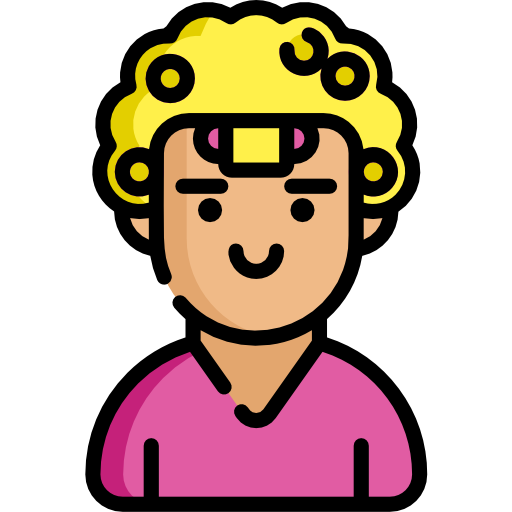
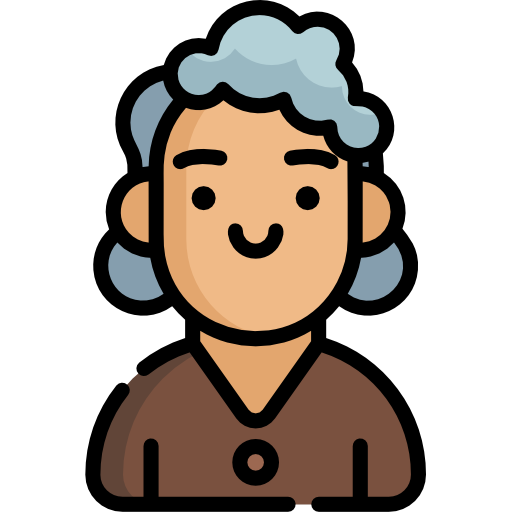
프로필사진 선택추가

diff --git a/src/main/resources/templates/myPage/myPage.html b/src/main/resources/templates/myPage/myPage.html
@@ -16,52 +16,55 @@
 <div class="myPage">
     <hr class="myPageHr">
     <p class="myPageHead">&nbsp&nbsp개인정보</p>
+
     <div class="myPageIndiv">
+        <br>
+        <div class="row g-3 align-items-center  no-gutters">
+            <br>
+            <div class="col-auto">
+                <label for="emailText" class="col-form-label">이메일</label>
+            </div>
+            <div class="col-md-9">
+                <input type="text" id="emailText" class="form-control" placeholder="test2@naver.com"
+                       th:value="${member.getEmail()}" disabled>
+            </div>
+        </div>
+        <br>
+
+        <div class="row g-3 align-items-center no-gutters">
+            <div class="col-auto">
+                <label class="col-form-label">닉네임</label>
+            </div>
+            <div class="col-md-9">
+                <input type="text" id="nameText" class="form-control" placeholder="닉네임"
+                       th:value="${member.getNickname()}">
+            </div>
+        </div>
+        <br>
+        <div class="row g-3 align-items-center no-gutters">
+            <div class="col-auto">
+                <label for="callText" class="col-form-label">연락처</label>
+            </div>
+            <div class="col-md-9">
+                <input type="text" id="callText" class="form-control" placeholder="010-1234-5678"
+                       th:value="${member.getPhone()}">
+            </div>
+        </div>
         <br>
 
         <div class="row g-3 align-items-center">
-            <br>
-            <div class="row g-3 align-items-center no-gutters">
-                <div class="col-auto">
-                    <label for="emailText" class="col-form-label">이메일</label>
-                </div>
-                <div class="col-md-9">
-                    <input type="text" id="emailText" class="form-control" placeholder="test2@naver.com"
-                           th:value="${member.getEmail()}" disabled>
-                </div>
-            </div>
-            <br>
-
-            <div class="row g-3 align-items-center">
-                <div class="col-auto">
-                    <label class="col-form-label">닉네임</label>
-                </div>
-                <div class="col-md-9">
-                    <input type="text" id="nameText" class="form-control" placeholder="닉네임"
-                           th:value="${member.getNickname()}">
-                </div>
-            </div>
-
-            <div class="row g-3 align-items-center">
-                <div class="col-auto">
-                    <label for="callText" class="col-form-label">연락처</label>
-                </div>
-                <div class="col-md-9">
-                    <input type="text" id="callText" class="form-control" placeholder="010-1234-5678"
-                           th:value="${member.getPhone()}">
-                </div>
-            </div>
-            <br>
-
-            <div class="row g-3 align-items-center">
-                <div class="col-auto">
+            <div class="col-auto">
                 <span>
                     <button id="btn-update" type="button" class="btn btn-primary">변경</button>
                 </span>
-                </div>
             </div>
         </div>
+        <div style="position: relative;bottom: 215px;margin-left: 470px;width: 150px;height: 150px;border: 1px solid black;"
+             data-bs-toggle="modal" data-bs-target="#profile-change">
+            <img id="myProfile" style="width: 100%;height: 100%" src="/image/profile-icon/man1.png">
+        </div>
     </div>
+
     <hr class="myPageHr">
     <p class="myPageHead">&nbsp&nbsp 패스워드 변경</p>
     <br>
@@ -71,7 +74,8 @@
                 <label for="nowPass" class="col-form-label" style="padding-right: 3em">패스워드&nbsp</label>
             </div>
             <div class="col-md-9">
-                <input type="password" maxlength="20" id="nowPass" name="nowPass" class="form-control" placeholder="현재 비밀번호">
+                <input type="password" maxlength="20" id="nowPass" name="nowPass" class="form-control"
+                       placeholder="현재 비밀번호">
             </div>
         </div>
         <br>
@@ -81,7 +85,8 @@
                 <label for="newPass" class="col-form-label">변경할 패스워드</label>
             </div>
             <div class="col-md-9">
-                <input type="password" maxlength="20" id="newPass" name="newPass" class="form-control" placeholder="새 비밀번호">
+                <input type="password" maxlength="20" id="newPass" name="newPass" class="form-control"
+                       placeholder="새 비밀번호">
             </div>
         </div>
         <br>
@@ -91,7 +96,8 @@
                 <label for="rePass" class="col-form-label" style="padding-right: 1em">패스워드 확인</label>
             </div>
             <div class="col-md-9">
-                <input type="password" maxlength="20" id="rePass" name="rePass" class="form-control" placeholder="비밀번호 확인">
+                <input type="password" maxlength="20" id="rePass" name="rePass" class="form-control"
+                       placeholder="비밀번호 확인">
             </div>
             <div class="col-auto">
                 <span>
@@ -105,7 +111,7 @@
     <p class="myPageHead">&nbsp&nbsp친구 설정</p>
     <div class="myPageBox">
         <div class="text-center">
-            <button type="button" class="myPageBtnImage " id="img_btn" data-bs-target="#connect" data-bs-toggle="modal" >
+            <button type="button" class="myPageBtnImage " id="img_btn" data-bs-target="#connect" data-bs-toggle="modal">
                 <img class="myPagebtnImage2" src="/image/plusbutton.png">
             </button>
         </div>
@@ -136,7 +142,8 @@
             <label class="form-check-label" for="replenishAlarmsCheckbox" style="font-weight:bolder">보충 약 알림</label>
         </div>
         <div class=" form-check form-switch">
-            <input class="form-check-input " type="checkbox" role="switch" id="s4_1" th:checked="${member.getWorkAlarms != null}" onclick="isChecked()">
+            <input class="form-check-input " type="checkbox" role="switch" id="s4_1"
+                   th:checked="${member.getWorkAlarms != null}" onclick="isChecked()">
 
             <label class="form-check-label " for="s4_1" style="font-weight:bolder">출근 시 알림</label>
         </div>
@@ -145,7 +152,8 @@
                 <label for="workTime" class="col-form-label" style="padding-right: 3em">└ 출근 시간</label>
             </div>
             <div class="col-md-6">
-                <input type="time" id="workTime" class="form-control"  th:value="${#temporals.format(member.getWorkAlarms(), 'hh:mm')}">
+                <input type="time" id="workTime" class="form-control"
+                       th:value="${#temporals.format(member.getWorkAlarms(), 'hh:mm')}">
             </div>
         </div>
     </div>
@@ -191,9 +199,11 @@
                             <br>
                             <h5>함께 연동할 다른 사용자를 등록하시려면 프로필을 추가하세요.</h5>
                             <br>
-                            <form id="form" name="form" method="post" target="iframe1" class="row g-3 align-items-center needs-validation" novalidate>
+                            <form id="form" name="form" method="post" target="iframe1"
+                                  class="row g-3 align-items-center needs-validation" novalidate>
                                 <div class="col-auto">
-                                    <label for="connectEmail" class="col-form-label" style="padding-right: 3em">친구 이메일</label>
+                                    <label for="connectEmail" class="col-form-label" style="padding-right: 3em">친구
+                                        이메일</label>
                                 </div>
                                 <div class="col-md-7">
                                     <input type="email" id="connectEmail" class="form-control" placeholder="이메일">
@@ -208,7 +218,8 @@
                             <hr>
                             <div class="row g-3 align-items-center">
                                 <div class="col-auto">
-                                    <label for="connectName" class="col-form-label" style="padding-right: 3em">친구 닉네임</label>
+                                    <label for="connectName" class="col-form-label" style="padding-right: 3em">친구
+                                        닉네임</label>
                                 </div>
                                 <div class="col-md-7">
                                     <input type="text" id="connectName" class="form-control" placeholder="친구 닉네임">
@@ -227,6 +238,61 @@
         </div>
     </div>
 </div>
+
+<!-- 프로필 변경 -->
+<div class="portfolio-modal modal fade" id="profile-change" tabindex="-1" aria-labelledby="profile-change"
+     aria-hidden="true">
+    <div class="modal-dialog" style="max-width: 1000px">
+        <div class="modal-content">
+            <div class="modal-header border-0">
+                <button class="btn-close" type="button" data-bs-dismiss="modal" aria-label="Close"></button>
+            </div>
+            <div class="modal-body text-center pb-5">
+                <div class="container">
+                    <div class="row justify-content-center">
+                        <div class="col-lg-8">
+                            <!-- 타이틀 -->
+                            <h1 class="text-dark text-uppercase mb-0">프로필 변경하기</h1>
+                            <br>
+
+                            <div class="btn-group" role="group" aria-label="Basic radio toggle button group">
+                                <div class="row g-3 align-items-center" >
+                                    <!--남자 프로필 1~13-->
+                                    <div class="col-sm-2" style="width: 20%" th:each="num : ${#numbers.sequence(1,13)}">
+                                        <input type="radio" class="btn-check" name="profile-check" th:id="manIcon + ${num}" th:value="man+${num}" autocomplete="off" style="opacity: 0;">
+                                        <label class="btn btn-outline-primary" th:for="manIcon + ${num}">
+                                            <img style="width: 100px;height: 100px;border: 1px solid black"
+                                                 th:src="'/image/profile-icon/man' + ${num} + '.png'">
+                                        </label>
+                                    </div>
+
+                                    <!--여자 프로필 1~13-->
+                                    <div class="col-sm-2" style="width: 20%" th:each="num : ${#numbers.sequence(1,12)}">
+                                        <input type="radio" class="btn-check" name="profile-check" th:id="girlIcon + ${num}" th:value="girl+${num}" autocomplete="off" style="opacity: 0;">
+                                        <label class="btn btn-outline-primary" th:for="girlIcon + ${num}">
+                                            <img style="width: 100px;height: 100px;border: 1px solid black"
+                                                 th:src="'/image/profile-icon/girl' + ${num} + '.png'">
+                                        </label>
+                                    </div>
+                                </div>
+
+                            </div>
+
+                            <br><br><br>
+                            <button id="addbtn" class="btn btn-primary" data-bs-dismiss="modal" style="width: 90px">
+                                변경
+                            </button>
+                            <button class="btn btn-primary" data-bs-dismiss="modal" style="width: 90px">
+                                취소
+                            </button>
+                        </div>
+                    </div>
+                </div>
+            </div>
+        </div>
+    </div>
+</div>
+
 <iframe id="iframe1" name="iframe1" style="display:none"></iframe>
 <script src="https://ajax.googleapis.com/ajax/libs/jquery/3.5.1/jquery.min.js"></script>
 <script src="/member.js"></script>
@@ -241,6 +307,7 @@
             $('#workTimeDiv').hide();
         }
     }
+
     window.onload = isChecked();
 
     (function () {

diff --git a/src/main/resources/static/css/home.css b/src/main/resources/static/css/home.css
@@ -659,8 +659,9 @@ increment-next {  from {
 
 .myPageIndiv{
     height: 340px;
-    width: 580px;
-    margin: 0 auto;
+    width: 500px;
+    margin-left: 65px;
+    margin-right: 0px;
     text-align: center;
     vertical-align: middle; /*센터 맞춤 속성*/
     line-height: normal; /*센터 맞춤 속성*/
